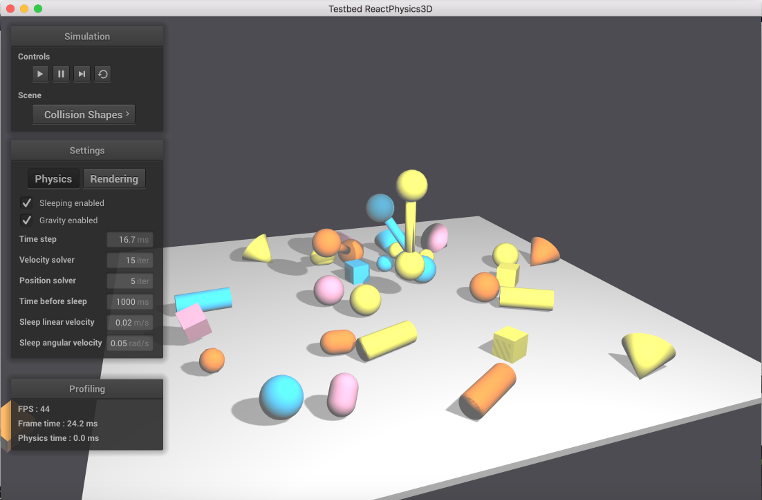
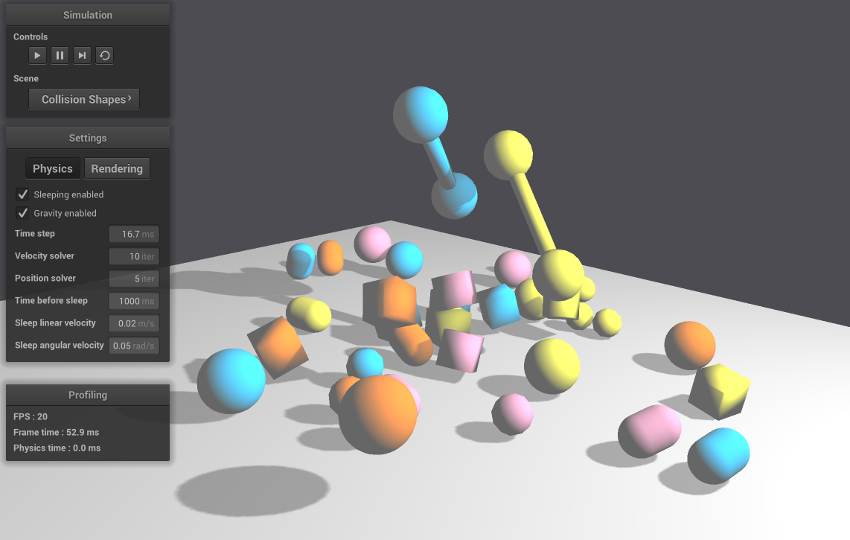
Update documentation

diff --git a/documentation/UserManual/ReactPhysics3D-UserManual.tex b/documentation/UserManual/ReactPhysics3D-UserManual.tex
@@ -1669,8 +1669,6 @@ bool isHit = proxyShape->raycast(ray, raycastInfo);
     \section{Testbed application}
     \label{sec:testbed}
 
-    TODO : Update screenshot here
-
     \begin{figure}[h]
         \centering
         \includegraphics{testbed.png}
@@ -1857,7 +1855,7 @@ world.setEventListener(&listener);
 rp3d::Profiler* profiler = new rp3d::Profiler();
 
 // Add a log destination file
-profiler->addFileDestination("custom\_profile.txt", Profiler::Format::Text);
+profiler->addFileDestination("custom_profile.txt", Profiler::Format::Text);
 
 // Add an output stream destination 
 profiler->addStreamDestination(std::cout, Profiler::Format::Text);
@@ -1890,11 +1888,11 @@ rp3d::CollisionWorld world(rp3d::WorldSettings(), nullptr, profiler);
 rp3d::Logger* logger = new rp3d::Logger();
 
 // Log level (infor, warning and error
-uint logLevel = static\_cast<uint>(Logger::Level::Info) | static\_cast<uint>(Logger::Level::Warning) |
-static\_cast<uint>(Logger::Level::Error);
+uint logLevel = static_cast<uint>(Logger::Level::Info) | static_cast<uint>(Logger::Level::Warning) |
+static_cast<uint>(Logger::Level::Error);
 
 // Add a log destination file
-logger->addFileDestination("custom\_log.html", logLevel, Logger::Format::HTML);
+logger->addFileDestination("custom_log.html", logLevel, Logger::Format::HTML);
 
 // Add an output stream destination 
 logger->addStreamDestination(std::cout, logLevel, Logger::Format::Text);
